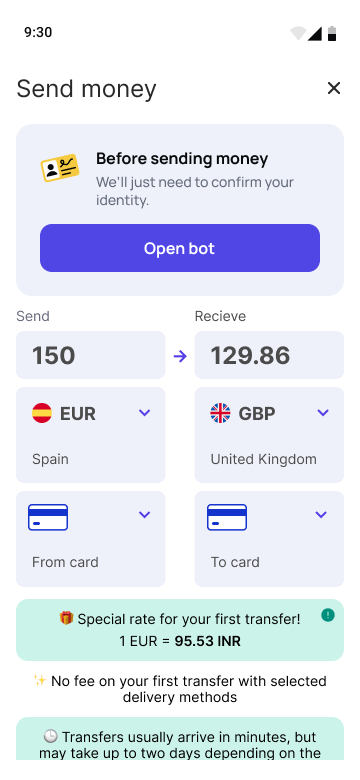
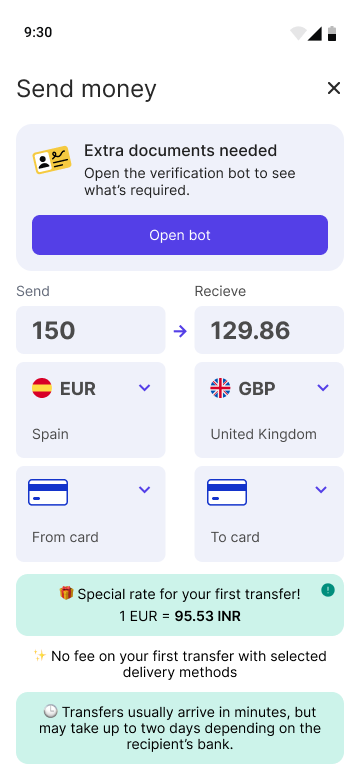
KYC web: first-verification card now reads 'Extra documents needed', as in the app

diff --git a/case-profee-verification.html b/case-profee-verification.html
@@ -680,7 +680,7 @@ body {
   <div class="screens-scroll">
     <div class="screens-row">
       <div class="screen-item">
-        <img style="aspect-ratio: auto 360 / 780;" src="images/verif/web-docs-needed.png" alt="Web Send money screen with a 'Before sending money – Open bot' card above the transfer form" data-alt-ru="Веб: экран отправки денег, над формой перевода карточка верификации с кнопкой «Открыть бота»" loading="lazy">
+        <img style="aspect-ratio: auto 360 / 780;" src="images/verif/web-docs-needed.png" alt="Web Send money screen with an 'Extra documents needed – Open bot' card above the transfer form" data-alt-ru="Веб: экран отправки денег, над формой перевода карточка «Нужны доп. документы» с кнопкой «Открыть бота»" loading="lazy">
         <div class="screen-cap">
           <strong lang="en" class="t-en">Docs needed</strong>
           <strong lang="ru" class="t-ru">Нужны документы</strong>
